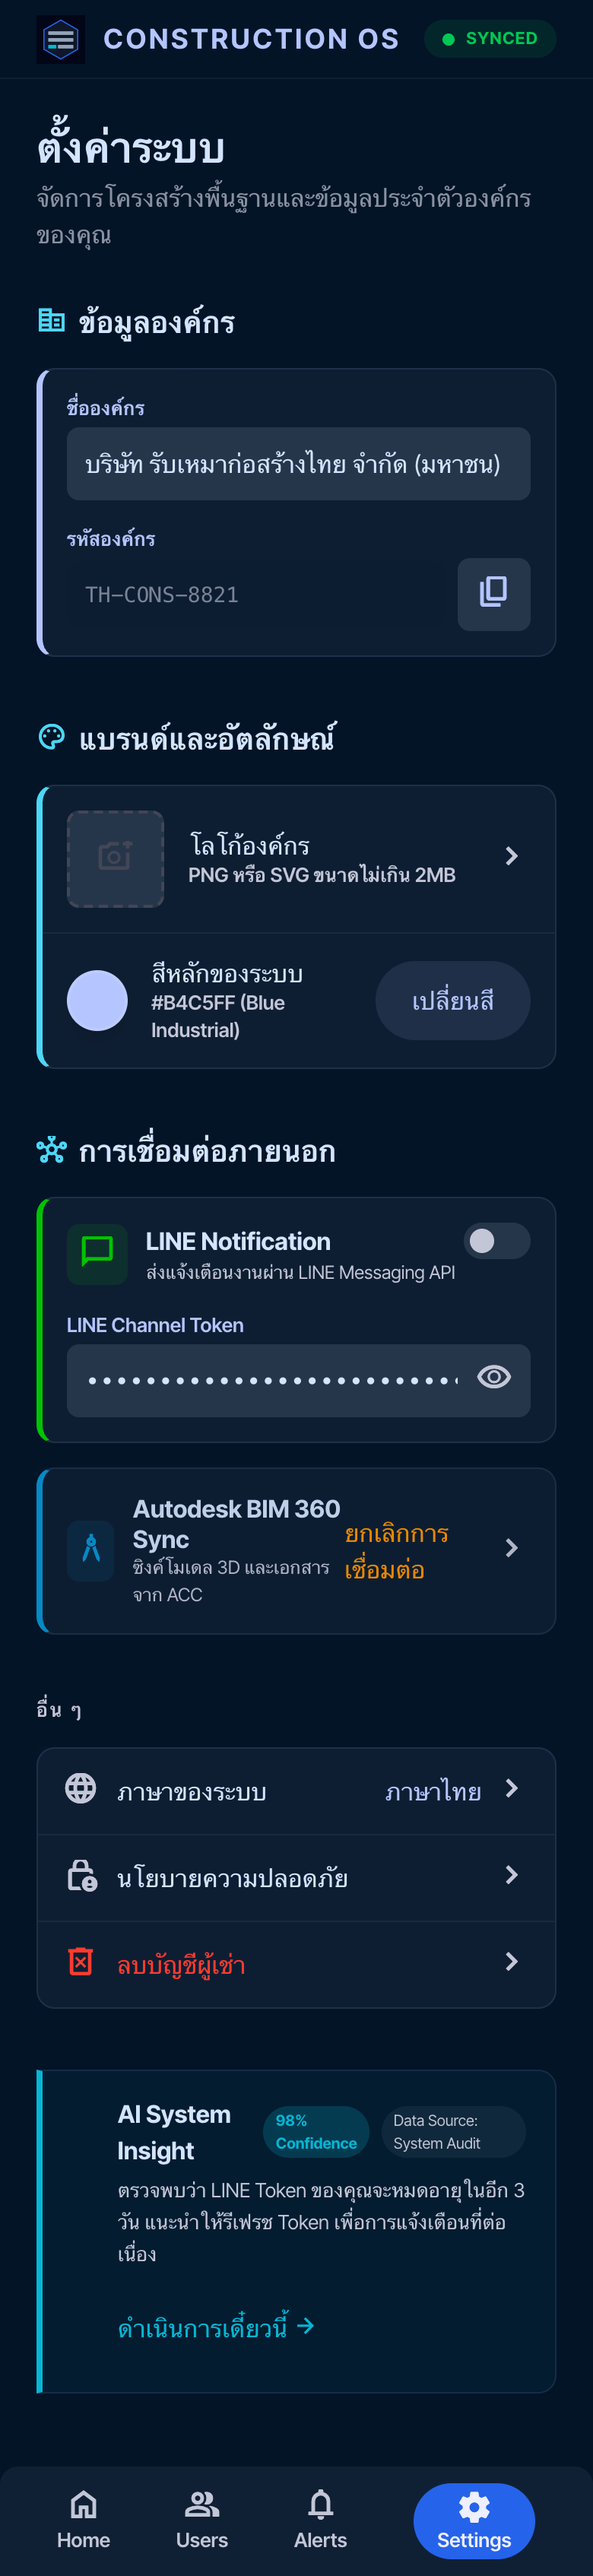
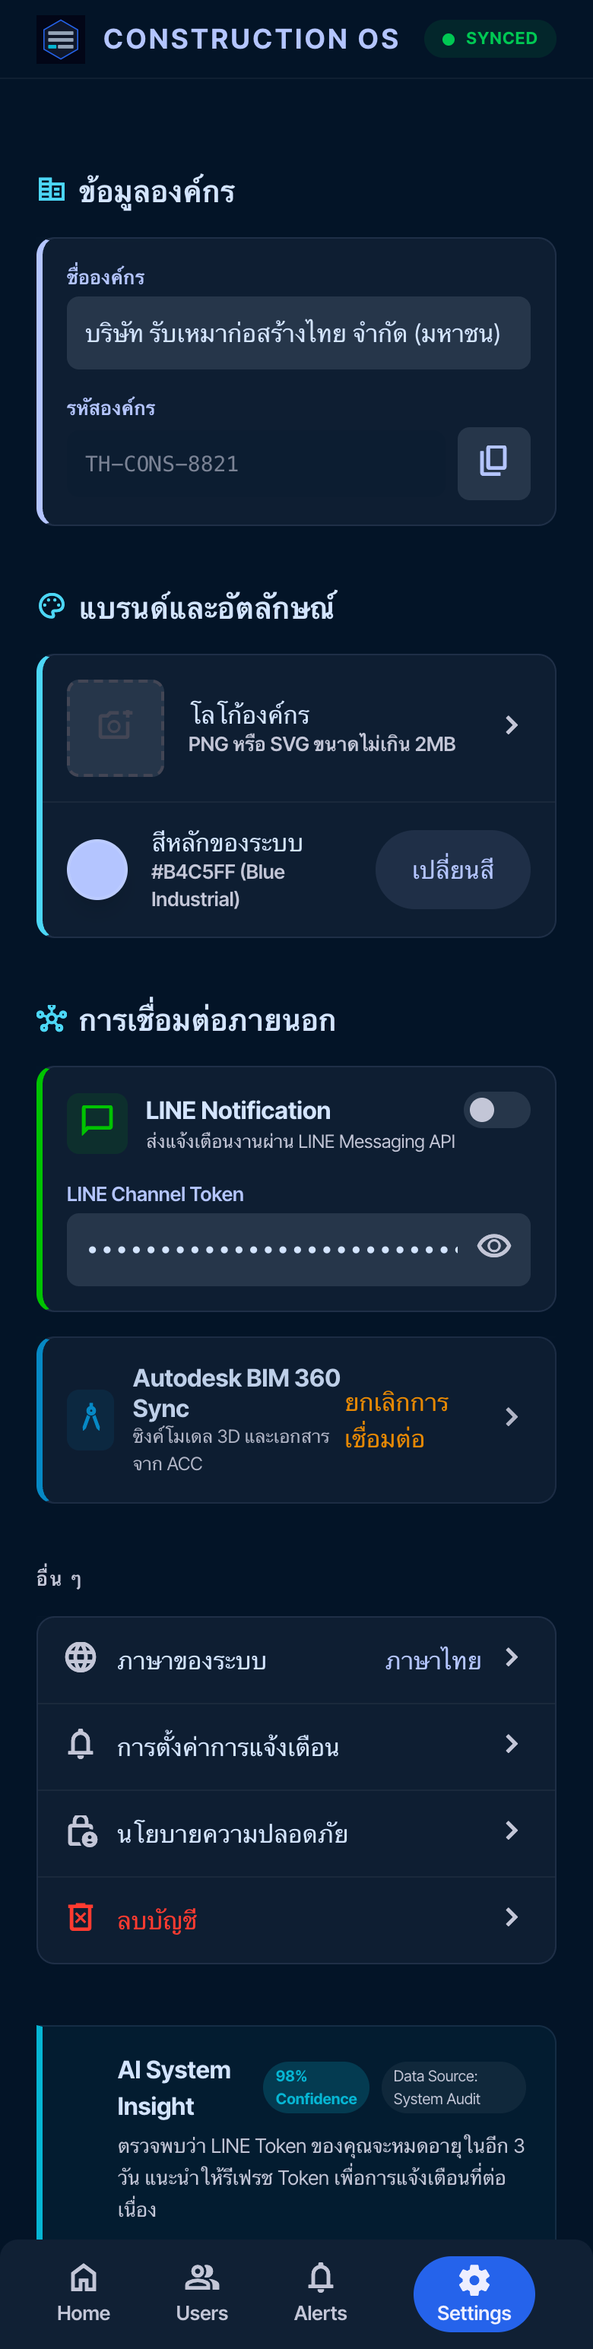
update: mockup ui

diff --git a/mockup/mobile/04_tenant_admin/04_settings/01_system_settings/code.html b/mockup/mobile/04_tenant_admin/04_settings/01_system_settings/code.html
@@ -138,8 +138,8 @@
 <main class="pt-20 px-edge-mobile max-w-2xl mx-auto">
 <!-- Header Section -->
 <header class="mb-8">
-<h2 class="font-hero-mobile text-hero-mobile text-on-surface mb-1">ตั้งค่าระบบ</h2>
-<p class="font-body-mobile text-on-surface-variant opacity-70">จัดการโครงสร้างพื้นฐานและข้อมูลประจำตัวองค์กรของคุณ</p>
+
+
 </header>
 <!-- Organization Profile Bento -->
 <section class="mb-10">
@@ -269,6 +269,12 @@
 <span class="font-label-mobile text-primary">ภาษาไทย</span>
 <span class="material-symbols-outlined text-on-surface-variant">chevron_right</span>
 </div>
+</div><div class="p-space-4 flex items-center justify-between border-b border-white/5 active:bg-surface-bright transition-colors cursor-pointer touch-target">
+<div class="flex items-center gap-3">
+<span class="material-symbols-outlined text-on-surface-variant">notifications</span>
+<p class="font-body-mobile text-on-surface">การตั้งค่าการแจ้งเตือน</p>
+</div>
+<span class="material-symbols-outlined text-on-surface-variant">chevron_right</span>
 </div>
 <div class="p-space-4 flex items-center justify-between border-b border-white/5 active:bg-surface-bright transition-colors cursor-pointer touch-target">
 <div class="flex items-center gap-3">
@@ -280,7 +286,7 @@
 <div class="p-space-4 flex items-center justify-between active:bg-surface-bright transition-colors cursor-pointer touch-target">
 <div class="flex items-center gap-3">
 <span class="material-symbols-outlined text-mobile-danger">delete_forever</span>
-<p class="font-body-mobile text-mobile-danger">ลบบัญชีผู้เช่า</p>
+<p class="font-body-mobile text-mobile-danger">ลบบัญชี</p>
 </div>
 <span class="material-symbols-outlined text-on-surface-variant">chevron_right</span>
 </div>
@@ -356,6 +362,12 @@
             });
         }
     </script>
+
+
+
+
+
+
 
 
 </body></html>
